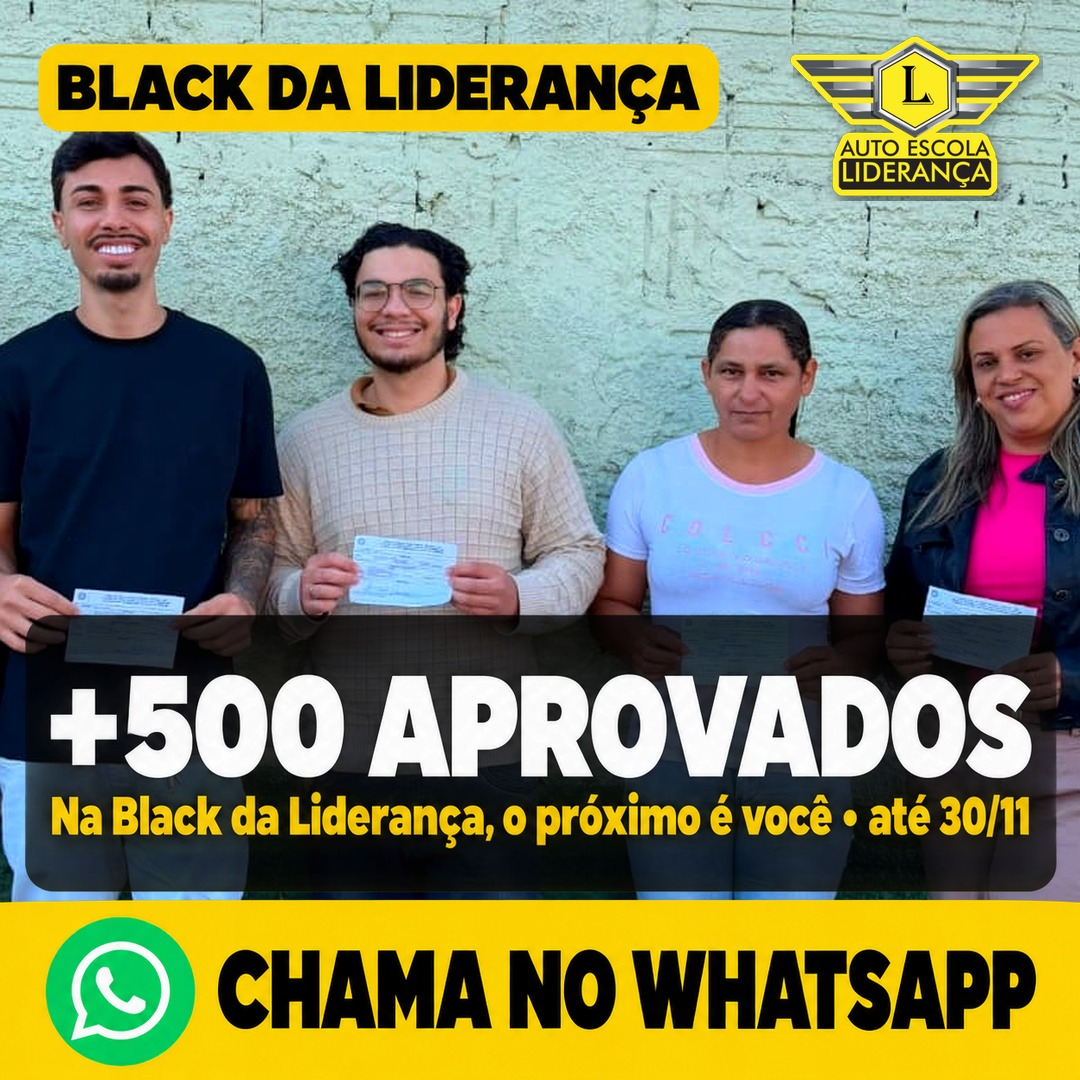
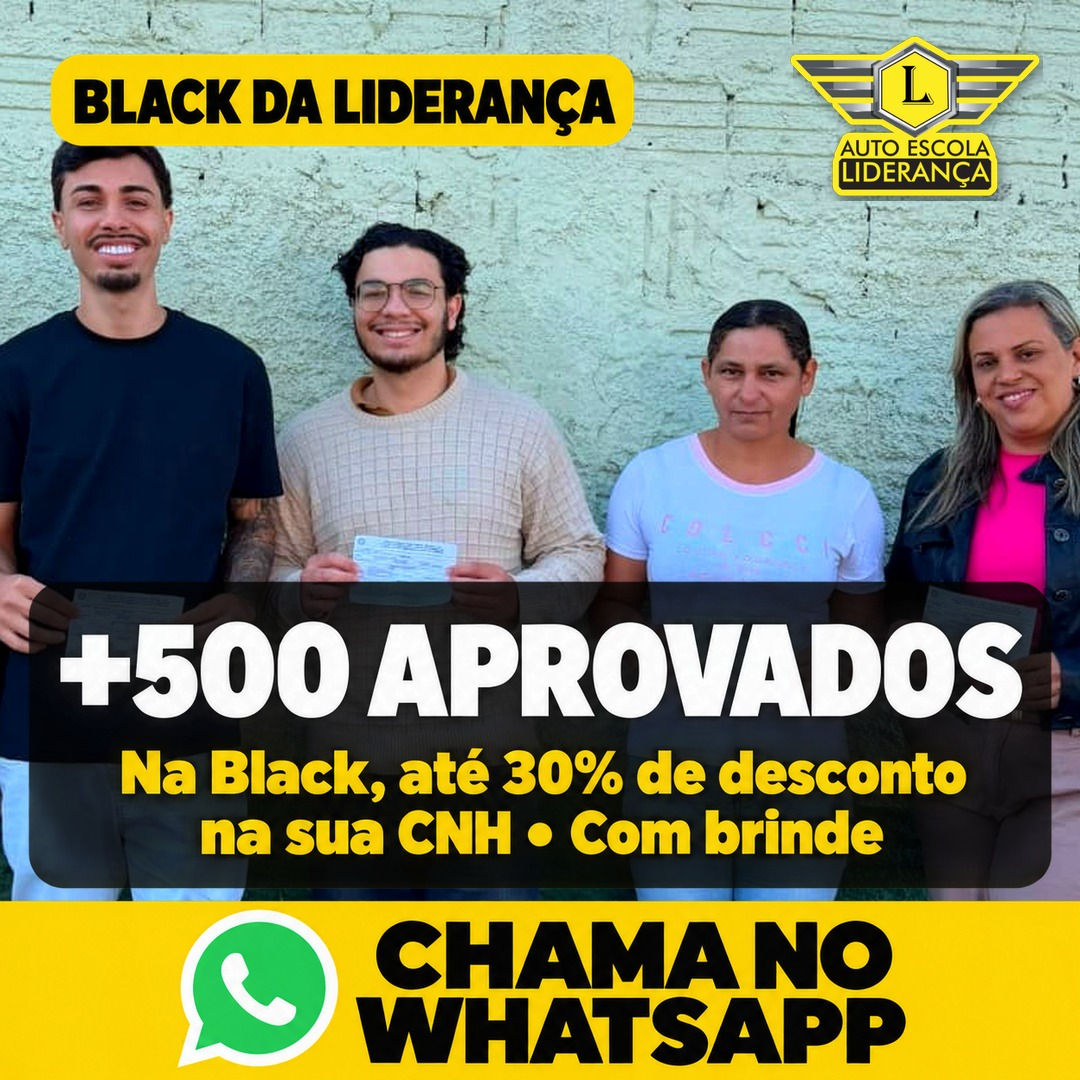
feat: Black sem preço — até 30% de desconto na CNH com brinde em peças, textos, roteiros e calendário

Changed region(s): [[0.0, 0.5194, 0.9778, 1.0], [0.0306, 0.0306, 0.6722, 0.1528]]

diff --git a/06-CONTEUDO/calendario-novembro.html b/06-CONTEUDO/calendario-novembro.html
@@ -111,7 +111,7 @@
 <section class="section" id="visao">
   <p class="section-num">01 · Visão do mês</p>
   <h2>O que acontece em <em>novembro</em></h2>
-  <p>Novembro inteiro é Black, porque a concorrência também vai fazer o mês todo. A estrutura tem quatro fases: lançamento (03/11, primeiro no grupo), categorias D e E com o Café da Black (semana de 09/11), prova social (semana de 16/11) e a última semana, com a sexta de Black em 27/11 e o fechamento em 30/11. Condição confirmada pela autoescola em 23/10: carro e moto juntos a R$ 1.750 (15 + 15 aulas) ou R$ 2.200 (20 + 20), categoria D a R$ 1.300 e categoria E a R$ 2.000, à vista ou parcelado sem juros; carro e moto separados também entram, de 2 a 20 aulas, com e sem legislação (tabela completa abaixo). Feriados: 02/11, 15/11 e 20/11.</p>
+  <p>Novembro inteiro é Black, porque a concorrência também vai fazer o mês todo. A estrutura tem quatro fases: lançamento (03/11, primeiro no grupo), categorias D e E com o Café da Black (semana de 09/11), prova social (semana de 16/11) e a última semana, com a sexta de Black em 27/11 e o fechamento em 30/11. Regra de comunicação definida pela autoescola em 30/10: nenhuma peça pública mostra preço; o gancho é “até 30% de desconto na sua CNH, com direito a brinde”, e o valor de cada pacote só é passado no WhatsApp (tabela interna abaixo, para a equipe). Feriados: 02/11, 15/11 e 20/11.</p>
   <div class="tres">
     <div class="bloco"><div class="et">Stories</div><h3>Todo dia útil</h3><p>Três momentos por dia e um sticker fixo por dia da semana. Sábado só a dica rápida.</p></div>
     <div class="bloco"><div class="et">Reels</div><h3>13 vídeos no mês</h3><p>6 de topo, 3 de meio e 4 de fundo, publicados segunda, quarta e sexta. Cada um com ficha pronta para gravar.</p></div>
@@ -125,8 +125,8 @@
     <div class="doc-card" style="cursor:default"><div class="doc-card-accent" style="background:var(--laranja)"></div><div class="doc-card-body"><div class="doc-card-tag" style="color:var(--laranja)">23/11 a 29/11</div><div class="doc-card-title">Semana 6 · Última semana da Black</div><div class="doc-card-desc">Urgência verdadeira: a condição acaba dia 30. Reels na segunda, carrossel na terça, sexta de Black com stories de hora em hora.</div></div></div>
     <div class="doc-card" style="cursor:default"><div class="doc-card-accent" style="background:var(--laranja)"></div><div class="doc-card-body"><div class="doc-card-tag" style="color:var(--laranja)">30/11</div><div class="doc-card-title">Segunda 30/11 · Fechamento</div><div class="doc-card-desc">Último dia da Black. Agradecimento, número de novos alunos (se autorizarem) e “quem ficou de fora entra no grupo para a próxima condição”.</div></div></div>
   </div>
-  <div class="grupo">Condição da Black (tabela completa, confirmada em 23/10 e revisada em 29/10)</div>
-  <p>Valores à vista, com curso de legislação e material incluídos. No cartão, em 5x sem juros, cada pacote custa R$ 100 a mais. Sem legislação (para quem já tem o curso), R$ 100 a menos. Vale de 03 a 30/11, nas duas unidades, sem limite de matrículas.</p>
+  <div class="grupo">Tabela interna da Black (uso da equipe no WhatsApp, não publicar)</div>
+  <p><strong>Decisão da autoescola em 30/10:</strong> nenhuma peça pública mostra preço. O gancho é “até 30% de desconto na sua CNH, com direito a brinde”; o valor de cada pacote só é passado na conversa do WhatsApp. Valores à vista, com curso de legislação e material incluídos. No cartão, em 5x sem juros, cada pacote custa R$ 100 a mais. Sem legislação (para quem já tem o curso), R$ 100 a menos. Vale de 03 a 30/11, nas duas unidades, sem limite de matrículas.</p>
   <table class="cal"><thead><tr><th>Pacote</th><th>Moto (A)</th><th>Carro (B)</th><th>Carro e moto (AB)</th></tr></thead><tbody>
     <tr><td class="d">2 aulas</td><td>R$ 400</td><td>R$ 400</td><td>R$ 700</td></tr>
     <tr><td class="d">5 aulas</td><td>R$ 450</td><td>R$ 550</td><td>R$ 900</td></tr>
@@ -136,7 +136,7 @@
     <tr><td class="d">Categoria D</td><td colspan="3">R$ 1.300 à vista ou 10x de R$ 150 · 10 aulas, aluguel do veículo e deslocamento para o exame</td></tr>
     <tr><td class="d">Categoria E</td><td colspan="3">R$ 2.000 à vista ou 10x de R$ 225 · 10 aulas, aluguel do veículo e deslocamento para o exame</td></tr>
   </tbody></table>
-  <p style="margin-top:10px;font-size:13px">Em relação à tabela normal, a Black fica cerca de um terço mais barata: carro com 10 aulas sai de R$ 1.260 por R$ 850; moto com 10 aulas, de R$ 1.160 por R$ 700; carro e moto com 10 + 10, de R$ 2.190 por R$ 1.350. Nas peças, o argumento é “um terço a menos”, sem citar a tabela antiga.</p>
+  <p style="margin-top:10px;font-size:13px">Em relação à tabela normal, a Black fica cerca de um terço mais barata: carro com 10 aulas sai de R$ 1.260 por R$ 850; moto com 10 aulas, de R$ 1.160 por R$ 700; carro e moto com 10 + 10, de R$ 2.190 por R$ 1.350. Nas peças, o argumento é “até 30% de desconto”, sem citar valores nem a tabela antiga.</p>
 </section>
 <section class="section" id="stories">
   <p class="section-num">02 · Rotina de stories</p>
@@ -175,18 +175,16 @@
     <div class="ficha-cab"><span class="data">ter 03/11</span><span class="tag">Fundo · Convite direto · revelação</span><h3>Black da Liderança: todos os pacotes</h3><span class="dur">25 a 30 s · Samuel e Gabriel</span></div>
     <div class="ficha-body">
       <div class="campo"><div class="rot">Gancho</div><p class="gancho">“Chegou a Black da Liderança. Vale o mês inteiro.”</p></div>
-      <div class="campo"><div class="rot">Cena</div><p class="cinza">Publicar no grupo do WhatsApp às 9h e no perfil às 12h (terça, porque segunda 02/11 é feriado). Samuel e Gabriel, cada um na sua unidade, mesma condição. Gravado na sexta 30/10, na mesma sessão do Reels de abertura do grupo. Mostrar a tabela da Black na tela enquanto fala.</p></div>
-      <div class="campo full"><div class="rot">Roteiro em três blocos</div><ol><li><b>Gancho:</b> “Chegou a Black da Liderança. Vale o mês inteiro, até 30 de novembro.”</li><li><b>Desenvolvimento:</b> “Carro, moto, carro e moto juntos, categoria D e categoria E, todos com condição Black. Carro com dez aulas por R$ 850. Moto com dez aulas por R$ 700. Carro e moto juntos, dez de cada, por R$ 1.350. Categoria E por R$ 2.000, categoria D por R$ 1.300. Tudo com legislação e material, à vista ou parcelado sem juros no cartão. Nas duas unidades.”</li><li><b>Fechamento:</b> “Chama no WhatsApp da sua unidade que a gente monta o seu pacote hoje.”</li></ol></div>
-      <div class="campo"><div class="rot">Texto na tela</div><div class="tela">Black da Liderança · 03 a 30/11<br>Carro 10 aulas R$ 850 · Moto 10 aulas R$ 700<br>Carro e moto 10 + 10 R$ 1.350<br>Cat. E R$ 2.000 · Cat. D R$ 1.300<br>Duas unidades · parcelado sem juros · com legislação<small>Mostrar a tabela completa num card à parte no fim do vídeo.</small></div></div>
+      <div class="campo"><div class="rot">Cena</div><p class="cinza">Publicar no grupo do WhatsApp às 9h e no perfil às 12h (terça, porque segunda 02/11 é feriado). Samuel e Gabriel, cada um na sua unidade, mesma condição. Gravado na sexta 30/10, na mesma sessão do Reels de abertura do grupo. Sem preço no vídeo: o desconto aparece na tela, o valor fica para o WhatsApp.</p></div>
+      <div class="campo full"><div class="rot">Roteiro em três blocos</div><ol><li><b>Gancho:</b> “Chegou a Black da Liderança. Vale o mês inteiro, até 30 de novembro.”</li><li><b>Desenvolvimento:</b> “Até 30% de desconto na sua CNH: carro, moto, carro e moto juntos, categoria D e categoria E. Com legislação e material, parcelado sem juros no cartão, e ainda com direito a brinde. Nas duas unidades.”</li><li><b>Fechamento:</b> “Chama no WhatsApp da sua unidade que a gente monta o seu pacote hoje.”</li></ol></div>
+      <div class="campo"><div class="rot">Texto na tela</div><div class="tela">Black da Liderança · 03 a 30/11<br>Até 30% de desconto na sua CNH<br>Carro · moto · carro e moto · D e E<br>Com direito a brinde<br>Duas unidades · parcelado sem juros · com legislação<small>Sem valores na tela: quem quiser saber o preço chama no WhatsApp.</small></div></div>
       <div class="campo"><div class="rot">Chamado (um só)</div><p class="chamado">Chama no WhatsApp da sua unidade (link na bio).</p></div>
       <div class="campo full"><div class="rot">Legenda pronta</div><div class="legenda">Chegou a Black da Liderança. 🖤 Vale o mês inteiro, até 30 de novembro, nas duas unidades.
 
-🚗 Carro: 5 aulas por R$ 550 · 10 aulas por R$ 850 · 15 por R$ 1.000 · 20 por R$ 1.300
-🏍 Moto: 5 aulas por R$ 450 · 10 aulas por R$ 700 · 15 por R$ 850 · 20 por R$ 1.100
-🚗🏍 Carro e moto: 5 + 5 por R$ 900 · 10 + 10 por R$ 1.350 · 15 + 15 por R$ 1.750 · 20 + 20 por R$ 2.200
-🚍 Categoria D: R$ 1.300 à vista ou 10x de R$ 150
-🚛 Categoria E (carreta): R$ 2.000 à vista ou 10x de R$ 225
-Valores à vista, com legislação e material incluídos. No cartão, 5x sem juros (R$ 100 a mais). Já tem o curso de legislação? R$ 100 a menos.
+🚗 Carro, 🏍 moto, 🚗🏍 carro e moto, 🚍 categoria D e 🚛 categoria E: até 30% de desconto na sua CNH.
+🎁 Com direito a brinde para quem fechar na Black.
+✅ Curso de legislação e material incluídos · parcelado sem juros no cartão.
+Já tem o curso de legislação? Condição especial. O valor do seu pacote a gente passa no WhatsApp.
 📲 Chama no WhatsApp:
 Coração de Jesus: (38) 9920-5651
 Brasília de Minas: (38) 9868-8520
@@ -263,14 +261,12 @@ Comenta se você também tem medo.
     <div class="ficha-body">
       <div class="campo"><div class="rot">Gancho</div><p class="gancho">“Você já tem carteira e quer trabalhar com ônibus ou carreta? Escuta isso.”</p></div>
       <div class="campo"><div class="rot">Cena</div><p class="cinza">Samuel ao lado da carreta (ou do veículo da categoria D). Olho na câmera, lapela.</p></div>
-      <div class="campo full"><div class="rot">Roteiro em três blocos</div><ol><li><b>Gancho:</b> “Você já tem carteira e quer trabalhar com ônibus ou carreta? Escuta isso.”</li><li><b>Desenvolvimento:</b> “Na Black da Liderança, categoria D sai por R$ 1.300 e categoria E por R$ 2.000, à vista, ou em dez vezes sem juros. Dez aulas, aluguel do veículo e deslocamento para o exame incluídos.”</li><li><b>Fechamento:</b> “Vale até 30 de novembro. Chama no WhatsApp da sua unidade.”</li></ol></div>
-      <div class="campo"><div class="rot">Texto na tela</div><div class="tela">Categoria D: R$ 1.300 · 10x de R$ 150<br>Categoria E: R$ 2.000 · 10x de R$ 225<br>Aulas + veículo + deslocamento para o exame<br>Até 30/11<small>Valores à vista e parcelado.</small></div></div>
+      <div class="campo full"><div class="rot">Roteiro em três blocos</div><ol><li><b>Gancho:</b> “Você já tem carteira e quer trabalhar com ônibus ou carreta? Escuta isso.”</li><li><b>Desenvolvimento:</b> “Na Black da Liderança, categoria D e categoria E saem com até 30% de desconto, em dez vezes sem juros e com brinde. Dez aulas, aluguel do veículo e deslocamento para o exame incluídos.”</li><li><b>Fechamento:</b> “Vale até 30 de novembro. Chama no WhatsApp da sua unidade.”</li></ol></div>
+      <div class="campo"><div class="rot">Texto na tela</div><div class="tela">Categoria D e E · até 30% de desconto<br>10x sem juros · com brinde<br>Aulas + veículo + deslocamento para o exame<br>Até 30/11<small>Sem valores na tela.</small></div></div>
       <div class="campo"><div class="rot">Chamado (um só)</div><p class="chamado">Chama no WhatsApp da sua unidade (link na bio).</p></div>
       <div class="campo full"><div class="rot">Legenda pronta</div><div class="legenda">Já tem carteira e quer trabalhar com ônibus ou carreta? 🚍🚛
 
-Na Black da Liderança:
-🚍 Categoria D: R$ 1.300 à vista ou 10x de R$ 150
-🚛 Categoria E: R$ 2.000 à vista ou 10x de R$ 225
+Na Black da Liderança, categoria D e categoria E com até 30% de desconto, em 10x sem juros e com direito a brinde. 🎁
 10 aulas, aluguel do veículo e deslocamento para o exame incluídos. Vale até 30/11, nas duas unidades.
 📲 Chama no WhatsApp:
 Coração de Jesus: (38) 9920-5651
@@ -327,18 +323,16 @@ Marca quem precisa ver isso hoje.
     <div class="ficha-cab"><span class="data">seg 23/11</span><span class="tag">Fundo · Convite direto · última semana</span><h3>Última semana da Black da Liderança</h3><span class="dur">20 a 25 s · Samuel e Gabriel</span></div>
     <div class="ficha-body">
       <div class="campo"><div class="rot">Gancho</div><p class="gancho">“Última semana da Black da Liderança.”</p></div>
-      <div class="campo"><div class="rot">Cena</div><p class="cinza">Samuel e Gabriel, cada um na sua unidade. Tabela da Black na tela. Tom de urgência verdadeira: a condição acaba dia 30.</p></div>
-      <div class="campo full"><div class="rot">Roteiro em três blocos</div><ol><li><b>Gancho:</b> “Última semana da Black da Liderança.”</li><li><b>Desenvolvimento:</b> “Carro, moto, carro e moto, categoria D e E com condição especial só até dia 30. Carro com dez aulas por R$ 850, moto por R$ 700, os dois juntos por R$ 1.350, categoria E por R$ 2.000 e categoria D por R$ 1.300. Com legislação, à vista ou parcelado sem juros.”</li><li><b>Fechamento:</b> “Depois de dia 30 volta ao normal. Chama no WhatsApp da sua unidade hoje.”</li></ol></div>
-      <div class="campo"><div class="rot">Texto na tela</div><div class="tela">Última semana · até 30/11<br>Carro 10 aulas R$ 850 · Moto R$ 700<br>Carro e moto 10 + 10 R$ 1.350<br>Cat. E R$ 2.000 · Cat. D R$ 1.300<br>Depois volta ao normal<small>Valores à vista, com legislação.</small></div></div>
+      <div class="campo"><div class="rot">Cena</div><p class="cinza">Samuel e Gabriel, cada um na sua unidade. Desconto na tela, sem valores. Tom de urgência verdadeira: a condição acaba dia 30.</p></div>
+      <div class="campo full"><div class="rot">Roteiro em três blocos</div><ol><li><b>Gancho:</b> “Última semana da Black da Liderança.”</li><li><b>Desenvolvimento:</b> “Carro, moto, carro e moto, categoria D e E com até 30% de desconto só até dia 30. Com legislação e material, parcelado sem juros, e com direito a brinde.”</li><li><b>Fechamento:</b> “Depois de dia 30 volta ao normal. Chama no WhatsApp da sua unidade hoje.”</li></ol></div>
+      <div class="campo"><div class="rot">Texto na tela</div><div class="tela">Última semana · até 30/11<br>Até 30% de desconto na sua CNH<br>Carro · moto · carro e moto · D e E<br>Com direito a brinde<br>Depois volta ao normal<small>Sem valores na tela.</small></div></div>
       <div class="campo"><div class="rot">Chamado (um só)</div><p class="chamado">Chama no WhatsApp da sua unidade (link na bio).</p></div>
       <div class="campo full"><div class="rot">Legenda pronta</div><div class="legenda">Última semana da Black da Liderança. 🖤 Só até 30 de novembro.
 
-🚗 Carro: 5 aulas por R$ 550 · 10 aulas por R$ 850 · 15 por R$ 1.000 · 20 por R$ 1.300
-🏍 Moto: 5 aulas por R$ 450 · 10 aulas por R$ 700 · 15 por R$ 850 · 20 por R$ 1.100
-🚗🏍 Carro e moto: 5 + 5 por R$ 900 · 10 + 10 por R$ 1.350 · 15 + 15 por R$ 1.750 · 20 + 20 por R$ 2.200
-🚍 Categoria D: R$ 1.300 à vista ou 10x de R$ 150
-🚛 Categoria E (carreta): R$ 2.000 à vista ou 10x de R$ 225
-Valores à vista, com legislação e material incluídos. No cartão, 5x sem juros (R$ 100 a mais). Já tem o curso de legislação? R$ 100 a menos.
+🚗 Carro, 🏍 moto, 🚗🏍 carro e moto, 🚍 categoria D e 🚛 categoria E: até 30% de desconto na sua CNH.
+🎁 Com direito a brinde para quem fechar na Black.
+✅ Curso de legislação e material incluídos · parcelado sem juros no cartão.
+Já tem o curso de legislação? Condição especial. O valor do seu pacote a gente passa no WhatsApp.
 
 Depois de dia 30 volta ao normal.
 📲 Chama no WhatsApp:
@@ -403,14 +397,12 @@ Bem-vindos, novos alunos da Liderança. Quem ficou de fora da Black: entra no gr
   <p class="section-num">04 · Feed</p>
   <h2>Carrossel na terça, <em>estático na quinta</em></h2>
   <p>O feed é a vitrine de quem entra no perfil pelo anúncio. Carrossel ensina ou prova; estático avisa. Arte simples, nas cores da autoescola, com a legenda abaixo pronta para copiar.</p>
-  <div class="feed"><div class="cab"><span class="data">ter 03/11</span><span class="pill c">Carrossel</span><h3>Black da Liderança: todos os pacotes</h3></div><p>Capa: “Black da Liderança · 03 a 30/11”. Um slide por pacote: carro, moto, carro e moto (15 e 20 aulas), categoria D, categoria E, com valor à vista e parcelado. Slide “com ou sem legislação”. Último slide: duas unidades + WhatsApp.</p><div class="legenda">Chegou a Black da Liderança. 🖤 Vale o mês inteiro, até 30/11, nas duas unidades.
+  <div class="feed"><div class="cab"><span class="data">ter 03/11</span><span class="pill c">Carrossel</span><h3>Black da Liderança: todos os pacotes</h3></div><p>Capa: “Black da Liderança · 03 a 30/11”. Um slide por categoria: carro, moto, carro e moto, categoria D, categoria E, cada um com “até 30% de desconto” e o que está incluído. Slide do brinde. Sem valores. Último slide: duas unidades + WhatsApp.</p><div class="legenda">Chegou a Black da Liderança. 🖤 Vale o mês inteiro, até 30/11, nas duas unidades.
 
-🚗 Carro: 5 aulas por R$ 550 · 10 aulas por R$ 850 · 15 por R$ 1.000 · 20 por R$ 1.300
-🏍 Moto: 5 aulas por R$ 450 · 10 aulas por R$ 700 · 15 por R$ 850 · 20 por R$ 1.100
-🚗🏍 Carro e moto: 5 + 5 por R$ 900 · 10 + 10 por R$ 1.350 · 15 + 15 por R$ 1.750 · 20 + 20 por R$ 2.200
-🚍 Categoria D: R$ 1.300 à vista ou 10x de R$ 150
-🚛 Categoria E (carreta): R$ 2.000 à vista ou 10x de R$ 225
-Valores à vista, com legislação e material incluídos. No cartão, 5x sem juros (R$ 100 a mais). Já tem o curso de legislação? R$ 100 a menos.
+🚗 Carro, 🏍 moto, 🚗🏍 carro e moto, 🚍 categoria D e 🚛 categoria E: até 30% de desconto na sua CNH.
+🎁 Com direito a brinde para quem fechar na Black.
+✅ Curso de legislação e material incluídos · parcelado sem juros no cartão.
+Já tem o curso de legislação? Condição especial. O valor do seu pacote a gente passa no WhatsApp.
 
 Arrasta para ver cada pacote e depois chama no WhatsApp.
 📲 Chama no WhatsApp:
@@ -426,9 +418,9 @@ Coração de Jesus: (38) 9920-5651
 Brasília de Minas: (38) 9868-8520
 
 #AutoEscolaLiderança #CNH #CoraçãoDeJesus #BrasíliaDeMinas #NorteDeMinas #BlackDaLiderança</div></div>
-  <div class="feed"><div class="cab"><span class="data">ter 10/11</span><span class="pill c">Carrossel</span><h3>Categoria E em 3 perguntas</h3></div><p>As três perguntas do roteiro da Categoria E, uma por slide, com a carreta de fundo. Último slide: valor da Black para a categoria E.</p><div class="legenda">Categoria E aqui na região: as 3 perguntas que todo mundo faz. 🚛
+  <div class="feed"><div class="cab"><span class="data">ter 10/11</span><span class="pill c">Carrossel</span><h3>Categoria E em 3 perguntas</h3></div><p>As três perguntas do roteiro da Categoria E, uma por slide, com a carreta de fundo. Último slide: categoria E com até 30% de desconto na Black.</p><div class="legenda">Categoria E aqui na região: as 3 perguntas que todo mundo faz. 🚛
 
-E em novembro ela está na Black: R$ 2.000 à vista ou 10x de R$ 225.
+E em novembro ela está na Black: até 30% de desconto, em 10x sem juros e com brinde. 🎁
 
 Arrasta para ver as respostas.
 📲 Chama no WhatsApp:
@@ -455,20 +447,18 @@ Brasília de Minas: (38) 9868-8520
 #AutoEscolaLiderança #CNH #CoraçãoDeJesus #BrasíliaDeMinas #NorteDeMinas</div></div>
   <div class="feed"><div class="cab"><span class="data">qui 19/11</span><span class="pill c">Estático</span><h3>Faltam 10 dias</h3></div><p>Primeiro card da contagem regressiva do fim da Black. Repetir o modelo nos stories até o dia 29.</p><div class="legenda">Faltam 10 dias para a Black da Liderança acabar. 🖤
 
-Carro, moto, carro e moto, categoria D e E com condição especial até 30/11.
+Até 30% de desconto na sua CNH, com direito a brinde, só até 30/11.
 📲 Chama no WhatsApp:
 Coração de Jesus: (38) 9920-5651
 Brasília de Minas: (38) 9868-8520
 
 #AutoEscolaLiderança #CNH #CoraçãoDeJesus #BrasíliaDeMinas #NorteDeMinas #BlackDaLiderança</div></div>
-  <div class="feed"><div class="cab"><span class="data">ter 24/11</span><span class="pill c">Carrossel</span><h3>Última semana: tudo o que entra na Black</h3></div><p>Slide 1: “última semana”. Slides 2 a 6: um pacote por slide com valor. Slide 7: o que está incluído. Slide 8: duas unidades + WhatsApp.</p><div class="legenda">Última semana da Black da Liderança. 🖤 Só até 30/11.
+  <div class="feed"><div class="cab"><span class="data">ter 24/11</span><span class="pill c">Carrossel</span><h3>Última semana: tudo o que entra na Black</h3></div><p>Slide 1: “última semana”. Slides 2 a 6: uma categoria por slide com “até 30% de desconto”. Slide 7: o que está incluído. Slide 8: duas unidades + WhatsApp.</p><div class="legenda">Última semana da Black da Liderança. 🖤 Só até 30/11.
 
-🚗 Carro: 5 aulas por R$ 550 · 10 aulas por R$ 850 · 15 por R$ 1.000 · 20 por R$ 1.300
-🏍 Moto: 5 aulas por R$ 450 · 10 aulas por R$ 700 · 15 por R$ 850 · 20 por R$ 1.100
-🚗🏍 Carro e moto: 5 + 5 por R$ 900 · 10 + 10 por R$ 1.350 · 15 + 15 por R$ 1.750 · 20 + 20 por R$ 2.200
-🚍 Categoria D: R$ 1.300 à vista ou 10x de R$ 150
-🚛 Categoria E (carreta): R$ 2.000 à vista ou 10x de R$ 225
-Valores à vista, com legislação e material incluídos. No cartão, 5x sem juros (R$ 100 a mais). Já tem o curso de legislação? R$ 100 a menos.
+🚗 Carro, 🏍 moto, 🚗🏍 carro e moto, 🚍 categoria D e 🚛 categoria E: até 30% de desconto na sua CNH.
+🎁 Com direito a brinde para quem fechar na Black.
+✅ Curso de legislação e material incluídos · parcelado sem juros no cartão.
+Já tem o curso de legislação? Condição especial. O valor do seu pacote a gente passa no WhatsApp.
 
 Arrasta e depois chama no WhatsApp.
 📲 Chama no WhatsApp:

diff --git a/06-CRIATIVOS-ADS/roteiros-black.html b/06-CRIATIVOS-ADS/roteiros-black.html
@@ -67,15 +67,15 @@
 <section class="section" id="vb01">
   <p class="section-num">VB01 · Lançamento</p>
   <h2>Novembro inteiro é Black na Liderança</h2>
-  <p><span class="tag tag-cj">Samuel · CJ</span><span class="tag tag-bm">Gabriel · BM</span><span class="tag tag-t">20 a 25 segundos</span> Entra como AD 27 nos dois grupos e como Reels de terça 03/11. Mostrar a tabela da Black na edição enquanto fala os valores.</p>
-  <div class="fala"><small>Gancho · 0 a 3 s</small>Novembro inteiro é Black na Liderança. E vale para todas as categorias.</div>
-  <div class="fala"><small>Desenvolvimento · 3 a 17 s</small>Carro, 10 aulas por 850. Moto, 10 aulas por 700. Os dois juntos por 1.350. Categoria D por 1.300 e categoria E por 2.000. Tudo com curso de legislação e material, parcelado sem juros no cartão. Vale até 30 de novembro, aqui em [Coração de Jesus / Brasília de Minas].</div>
-  <div class="fala"><small>Fechamento para o anúncio · 17 a 22 s</small>Toca em “Enviar mensagem” aqui embaixo que a gente te manda a tabela completa.</div>
-  <div class="fala"><small>Fechamento para o Reels · 17 a 22 s</small>O link do WhatsApp está na bio. Chama lá que a gente te manda a tabela completa.</div>
-  <div class="tela">Texto na tela (edição): BLACK DA LIDERANÇA · 03 a 30/11 → Carro 10 aulas R$ 850 · Moto 10 aulas R$ 700 → Carro e moto R$ 1.350 → Cat. D R$ 1.300 · Cat. E R$ 2.000 → Com legislação · 5x sem juros</div>
+  <p><span class="tag tag-cj">Samuel · CJ</span><span class="tag tag-bm">Gabriel · BM</span><span class="tag tag-t">20 a 25 segundos</span> Entra como AD 27 nos dois grupos e como Reels de terça 03/11. Sem preço no vídeo: o desconto aparece na tela, o valor fica para o WhatsApp.</p>
+  <div class="fala"><small>Gancho · 0 a 3 s</small>Novembro inteiro é Black na Liderança: até 30% de desconto na sua CNH.</div>
+  <div class="fala"><small>Desenvolvimento · 3 a 17 s</small>Carro, moto, os dois juntos, categoria D e categoria E. Com curso de legislação e material, parcelado sem juros no cartão, e ainda com direito a brinde. Vale até 30 de novembro, aqui em [Coração de Jesus / Brasília de Minas].</div>
+  <div class="fala"><small>Fechamento para o anúncio · 17 a 22 s</small>Toca em “Enviar mensagem” aqui embaixo que a gente te mostra quanto fica a sua.</div>
+  <div class="fala"><small>Fechamento para o Reels · 17 a 22 s</small>O link do WhatsApp está na bio. Chama lá que a gente te mostra quanto fica a sua.</div>
+  <div class="tela">Texto na tela (edição): BLACK DA LIDERANÇA · 03 a 30/11 → ATÉ 30% DE DESCONTO NA SUA CNH → Carro · moto · carro e moto · D e E → Com legislação · 5x sem juros · com brinde</div>
   <div class="doc-grid">
-    <div class="bloco"><div class="et">Como gravar</div><ul><li>Em pé, ao lado do carro de aula, meio corpo.</li><li>Falar os valores no ritmo normal, sem correr: a tabela aparece na tela.</li><li>Gravar três vezes seguidas e mandar as três.</li></ul></div>
-    <div class="bloco"><div class="et">Se der errado</div><ul><li>Errou um valor: para, respira e recomeça do gancho.</li><li>Barulho de rua: encostar na parede da fachada, celular mais perto.</li><li>Esqueceu a ordem: carro, moto, os dois, D, E.</li></ul></div>
+    <div class="bloco"><div class="et">Como gravar</div><ul><li>Em pé, ao lado do carro de aula, meio corpo.</li><li>Falar o desconto e as categorias no ritmo normal: o texto aparece na tela.</li><li>Gravar três vezes seguidas e mandar as três.</li></ul></div>
+    <div class="bloco"><div class="et">Se der errado</div><ul><li>Errou uma frase: para, respira e recomeça do gancho.</li><li>Barulho de rua: encostar na parede da fachada, celular mais perto.</li><li>Esqueceu a ordem: carro, moto, os dois, D, E.</li></ul></div>
   </div>
 </section>
 
@@ -84,13 +84,13 @@
   <h2>Quanto custa tirar a carteira na Black?</h2>
   <p><span class="tag tag-cj">Samuel · CJ</span><span class="tag tag-bm">Gabriel · BM</span><span class="tag tag-t">20 a 25 segundos</span> Entra na segunda rotação (09/11) como reforço do AD 21 e do AD 22, respondendo à pergunta que mais chega no WhatsApp.</p>
   <div class="fala"><small>Gancho · 0 a 3 s</small>Quanto custa tirar a carteira de carro? Em novembro, menos do que você pensa.</div>
-  <div class="fala"><small>Desenvolvimento · 3 a 17 s</small>Na Black da Liderança o pacote de 10 aulas de carro sai por 850 reais, já com o curso de legislação e o material. No cartão, cinco vezes sem juros. Quem já fez a legislação paga 100 a menos. E se você quer carro e moto, os dois juntos saem por 1.350.</div>
+  <div class="fala"><small>Desenvolvimento · 3 a 17 s</small>Na Black da Liderança a sua carteira sai com até 30% de desconto, já com o curso de legislação e o material. No cartão, cinco vezes sem juros. Quem já fez a legislação tem condição especial. E quem fecha na Black ainda leva um brinde.</div>
   <div class="fala"><small>Fechamento para o anúncio · 17 a 22 s</small>Toca em “Enviar mensagem” e pergunta o que quiser. A gente responde na hora.</div>
   <div class="fala"><small>Fechamento para o Reels · 17 a 22 s</small>Chama no WhatsApp da sua unidade, o link está na bio.</div>
-  <div class="tela">Texto na tela: Carro 10 aulas → R$ 850 · com legislação e material → 5x sem juros → já tem legislação? R$ 100 a menos → Carro e moto R$ 1.350</div>
+  <div class="tela">Texto na tela: Até 30% de desconto → com legislação e material → 5x sem juros → com direito a brinde → só até 30/11</div>
   <div class="doc-grid">
     <div class="bloco"><div class="et">Como gravar</div><ul><li>Sentado no banco do motorista, porta aberta, câmera de fora.</li><li>Tom de quem está respondendo uma pergunta real, sem “vendedor”.</li></ul></div>
-    <div class="bloco"><div class="et">Versão moto (Gabriel)</div><p>Trocar carro por moto: “10 aulas de moto por 700 reais”. O resto é igual.</p></div>
+    <div class="bloco"><div class="et">Versão moto (Gabriel)</div><p>Trocar “carteira de carro” por “carteira de moto”. O resto é igual.</p></div>
   </div>
 </section>
 
@@ -99,13 +99,13 @@
   <h2>Caminhão e ônibus na Black</h2>
   <p><span class="tag tag-cj">Samuel · CJ</span><span class="tag tag-t">15 a 20 segundos</span> Versão em vídeo do melhor anúncio de outubro. Entra em 09/11 nos dois grupos (o vídeo do Samuel roda também em BM, como em outubro).</p>
   <div class="fala"><small>Gancho · 0 a 3 s</small>Já tem a carteira e quer trabalhar com caminhão ou ônibus? Olha isso.</div>
-  <div class="fala"><small>Desenvolvimento · 3 a 14 s</small>Na Black da Liderança, a categoria D sai por 1.300 e a categoria E, de carreta, por 2.000. Em dez vezes sem juros. Dez aulas, veículo com ar-condicionado e o deslocamento para o exame já incluídos. Só até 30 de novembro.</div>
+  <div class="fala"><small>Desenvolvimento · 3 a 14 s</small>Na Black da Liderança, a categoria D e a categoria E, de carreta, saem com até 30% de desconto, em dez vezes sem juros e com brinde. Dez aulas, veículo com ar-condicionado e o deslocamento para o exame já incluídos. Só até 30 de novembro.</div>
   <div class="fala"><small>Fechamento para o anúncio · 14 a 18 s</small>Toca em “Enviar mensagem” e garante sua vaga na primeira turma.</div>
   <div class="fala"><small>Fechamento para o Reels · 14 a 18 s</small>Chama no WhatsApp, o link está na bio.</div>
-  <div class="tela">Texto na tela: Categoria D R$ 1.300 · 10x de R$ 150 → Categoria E R$ 2.000 · 10x de R$ 225 → aulas + veículo + deslocamento para o exame → até 30/11</div>
+  <div class="tela">Texto na tela: Categoria D e E · até 30% de desconto → 10x sem juros · com brinde → aulas + veículo + deslocamento para o exame → até 30/11</div>
   <div class="doc-grid">
     <div class="bloco"><div class="et">Como gravar</div><ul><li>Samuel na frente da carreta, cabine inteira no quadro no início; depois aproxima.</li><li>Se a carreta não estiver na unidade na sexta, gravar na frente do veículo da categoria D.</li></ul></div>
-    <div class="bloco"><div class="et">Já existe</div><p>Os três roteiros da <a href="roteiros-categoria-e.html" style="color:var(--laranja)">página da Categoria E</a> continuam valendo para o orgânico. Este é a versão curta, com valor, para o anúncio.</p></div>
+    <div class="bloco"><div class="et">Já existe</div><p>Os três roteiros da <a href="roteiros-categoria-e.html" style="color:var(--laranja)">página da Categoria E</a> continuam valendo para o orgânico. Este é a versão curta, com o desconto, para o anúncio.</p></div>
   </div>
 </section>
 

diff --git a/07-TRAFEGO-PAGO/estrategia-novembro.html b/07-TRAFEGO-PAGO/estrategia-novembro.html
@@ -129,7 +129,7 @@
 
   <div class="grupo">As sete lições</div>
   <div class="doc-grid">
-    <div class="bloco"><div class="et">1 · Ângulo mais forte</div><h3>Caminhão e ônibus puxam a conversa</h3><p>A peça de categorias D e E trouxe uma em cada três conversas do mês, nas duas unidades, com o menor custo. Na Black ela continua e ganha uma versão com o valor.</p></div>
+    <div class="bloco"><div class="et">1 · Ângulo mais forte</div><h3>Caminhão e ônibus puxam a conversa</h3><p>A peça de categorias D e E trouxe uma em cada três conversas do mês, nas duas unidades, com o menor custo. Na Black ela continua e ganha uma versão com o desconto.</p></div>
     <div class="bloco"><div class="et">2 · Vídeo vende mais</div><h3>O vídeo do Samuel é o segundo melhor anúncio</h3><p>Um único vídeo de 20 segundos trouxe 39 conversas. O vídeo da Black, gravado na sexta 30/10, é a peça mais importante de novembro.</p></div>
     <div class="bloco"><div class="et">3 · Diferença entre unidades</div><h3>Brasília de Minas responde melhor</h3><p>Mesma verba, 85 conversas contra 66. Coração de Jesus não recebe mais verba (regra do projeto): recebe peças novas e o Samuel em vídeo.</p></div>
     <div class="bloco"><div class="et">4 · Prova social só onde funciona</div><h3>Aprovados converte em BM, não em CJ</h3><p>A mesma peça custou R$ 4,68 por conversa em Brasília de Minas e R$ 41 em Coração de Jesus. Em novembro, aprovados só em BM.</p></div>
@@ -158,15 +158,15 @@
 <section class="section" id="anuncios">
   <p class="section-num">03 · Anúncios da Black</p>
   <h2>Oito peças, <em>cada uma com um papel</em></h2>
-  <p>As peças seguem o padrão que a Priscila criou em outubro (foto real da autoescola, texto grande e botão de WhatsApp), com a tarja da Black. As imagens, os textos de cada anúncio e a saudação do WhatsApp estão na <a class="link" href="../06-CRIATIVOS-ADS/criativos-black-novembro.html">galeria de criativos da Black</a>. Os roteiros do vídeo estão em <a class="link" href="../06-CRIATIVOS-ADS/roteiros-black.html">roteiros da Black</a>.</p>
+  <p>As peças seguem o padrão que a Priscila criou em outubro (foto real da autoescola, texto grande e botão de WhatsApp), com a tarja da Black. Por decisão da autoescola em 30/10, nenhuma peça mostra preço: o gancho é “até 30% de desconto na sua CNH, com direito a brinde”, e o valor só aparece na conversa do WhatsApp. As imagens, os textos de cada anúncio e a saudação do WhatsApp estão na <a class="link" href="../06-CRIATIVOS-ADS/criativos-black-novembro.html">galeria de criativos da Black</a>. Os roteiros do vídeo estão em <a class="link" href="../06-CRIATIVOS-ADS/roteiros-black.html">roteiros da Black</a>.</p>
   <table class="t">
     <thead><tr><th>Anúncio</th><th>Peça</th><th>Entra em</th><th>Onde</th><th>Papel</th></tr></thead>
     <tbody>
       <tr><td>AD 20</td><td>Black geral · Samuel (CJ) / Gabriel (BM)</td><td>03/11</td><td class="m">CJ · BM</td><td class="m">Abre a Black: novembro inteiro, todas as categorias</td></tr>
-      <tr><td>AD 21</td><td>Carro: 10 aulas por R$ 850</td><td>03/11</td><td class="m">CJ</td><td class="m">O pacote mais procurado, com o valor na cara</td></tr>
-      <tr><td>AD 22</td><td>Moto: 10 aulas por R$ 700</td><td>03/11</td><td class="m">BM</td><td class="m">Repete o acerto da peça de moto de outubro</td></tr>
-      <tr><td>AD 23</td><td>Carro e moto por R$ 1.350</td><td>03/11</td><td class="m">CJ · RMK</td><td class="m">Pacote completo para quem quer as duas carteiras</td></tr>
-      <tr><td>AD 24</td><td>Caminhão e ônibus na Black</td><td>03/11</td><td class="m">CJ · BM</td><td class="m">Versão Black do melhor anúncio de outubro</td></tr>
+      <tr><td>AD 21</td><td>Carteira de carro com até 30% de desconto</td><td>03/11</td><td class="m">CJ</td><td class="m">O pacote mais procurado, com o desconto na cara</td></tr>
+      <tr><td>AD 22</td><td>Carteira de moto com até 30% de desconto</td><td>03/11</td><td class="m">BM</td><td class="m">Repete o acerto da peça de moto de outubro</td></tr>
+      <tr><td>AD 23</td><td>Carro e moto com até 30% de desconto</td><td>03/11</td><td class="m">CJ · RMK</td><td class="m">Pacote completo para quem quer as duas carteiras</td></tr>
+      <tr><td>AD 24</td><td>Caminhão e ônibus com até 30% de desconto</td><td>03/11</td><td class="m">CJ · BM</td><td class="m">Versão Black do melhor anúncio de outubro</td></tr>
       <tr><td>AD 25</td><td>+500 aprovados na Black</td><td>03/11</td><td class="m">BM · RMK</td><td class="m">Prova social, só onde funcionou</td></tr>
       <tr><td>AD 26</td><td>Última semana: a Black acaba dia 30</td><td>19/11</td><td class="m">CJ · BM · RMK</td><td class="m">Urgência real nos últimos doze dias</td></tr>
       <tr><td>AD 27</td><td>Vídeo da Black · Samuel e Gabriel</td><td>04 ou 05/11</td><td class="m">CJ · BM</td><td class="m">Peça principal do mês; substitui o vídeo de outubro</td></tr>
